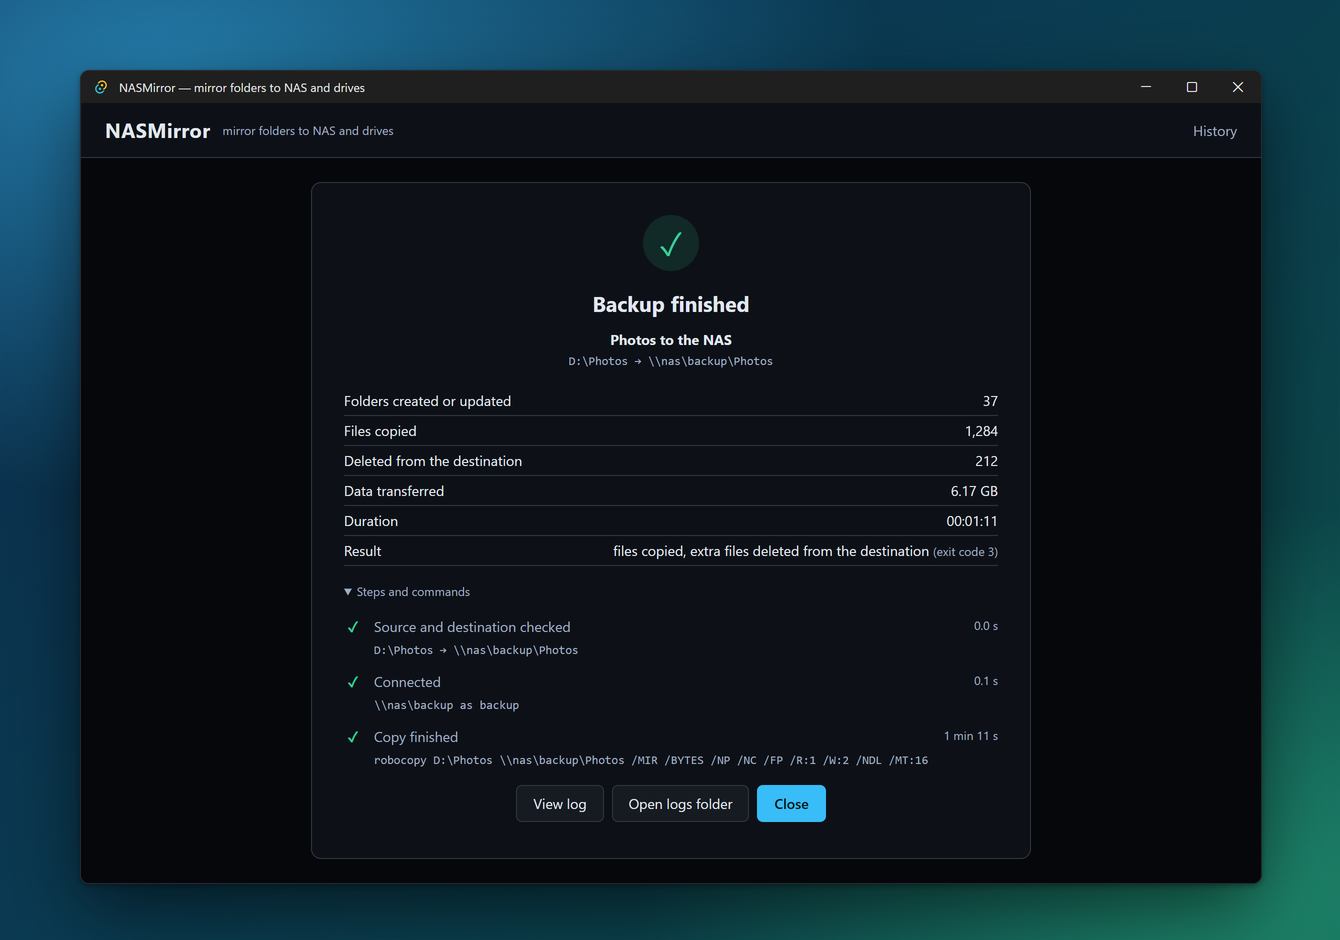
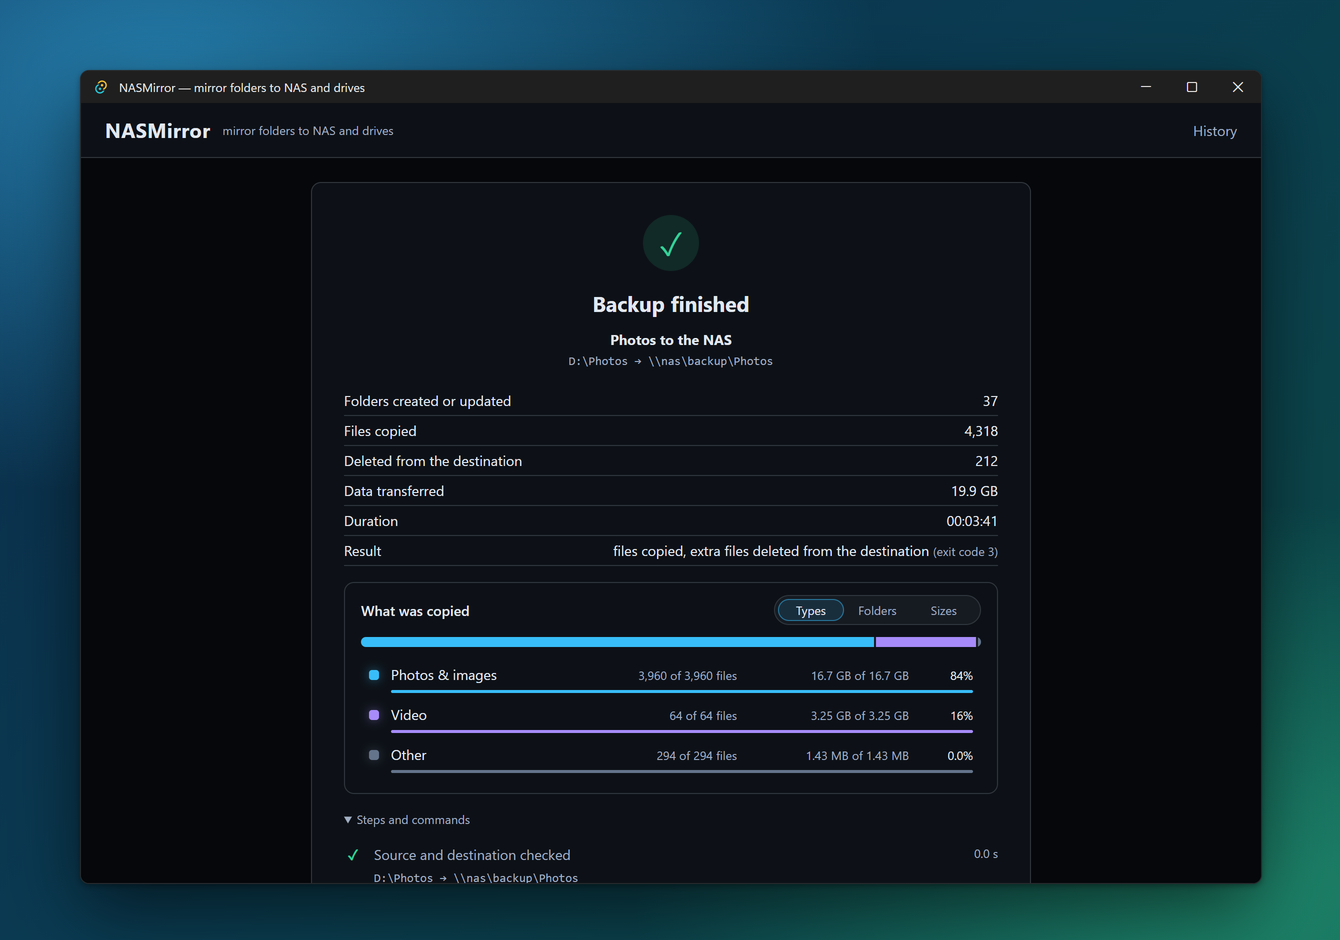
README screenshots with the file-type breakdown and the new chart
The preview, live copy and results now show what is being copied by type,
folder or size; the mock result takes a realistic 3 min 41 s for 19.9 GB.

Changed region(s): [[0.2448, 0.617, 0.7343, 0.8947], [0.2754, 0.8638, 0.4284, 0.9564], [0.7037, 0.4936, 0.7343, 0.5245]]

diff --git a/README.md b/README.md
@@ -1,5 +1,5 @@
 <p align="center">
-  <img src="docs/screenshots/hero.png" alt="NASMirror copying a photo folder to a NAS: progress, a live chart of data and files per second, and each step with its exact command" width="900">
+  <img src="docs/screenshots/hero.png" alt="NASMirror copying a photo folder to a NAS: progress, a live chart of data and files per second, and what is being copied by type of file" width="900">
 </p>
 
 <h1 align="center">NASMirror</h1>
@@ -130,10 +130,10 @@ your own NAS.
 <table>
   <tr>
     <td width="50%"><img src="docs/screenshots/jobs.png" alt="The list of saved jobs, each with its paths, mode and last run"><br><b>Your jobs</b>, each with how its last run went.</td>
-    <td width="50%"><img src="docs/screenshots/preview.png" alt="The preview before a mirror copy: files to copy, folders to create and the files mirror mode will delete"><br><b>Before copying</b>: what will be copied and deleted, and the exact commands behind it.</td>
+    <td width="50%"><img src="docs/screenshots/preview.png" alt="The preview before a mirror copy: what will be copied by type of file, and the folders mirror mode will delete"><br><b>Before copying</b>: what will be copied, by type, folder or size, and what will be deleted.</td>
   </tr>
   <tr>
-    <td width="50%"><img src="docs/screenshots/results.png" alt="The results panel: folders, files copied and deleted, data, duration and robocopy's exit code in plain words"><br><b>When it ends</b>: what was done, in plain words, with the log one click away.</td>
+    <td width="50%"><img src="docs/screenshots/results.png" alt="The results panel: files copied and deleted, data, duration, robocopy's exit code in plain words, and what was copied by type"><br><b>When it ends</b>: what was done, in plain words, with the log one click away.</td>
     <td width="50%"><img src="docs/screenshots/job-form.png" alt="The job form: source, destination, direct copy or versioned snapshots, add-only or mirror"><br><b>A job</b>: source and destination, direct copy or versioned snapshots, add-only or mirror.</td>
   </tr>
 </table>
@@ -234,6 +234,9 @@ by hand:
   exact command line it runs.
 - **Live progress** — progress bar, transferred/total, speed, files, time
   left, and a live chart of data and files per second over the last minute.
+- **What is in the copy** (robocopy) — the files to copy grouped by type
+  (photos, video, documents, code, archives...), by folder or by size: in the
+  preview, filling in live while it copies, and in the results.
 - **Mirror and add-only modes** — mirror leaves the destination identical to
   the source (deleting whatever is left over); add-only only adds and updates,
   never deletes. Point a mirror at a folder of its own (`\\nas\copy\Photos`),
